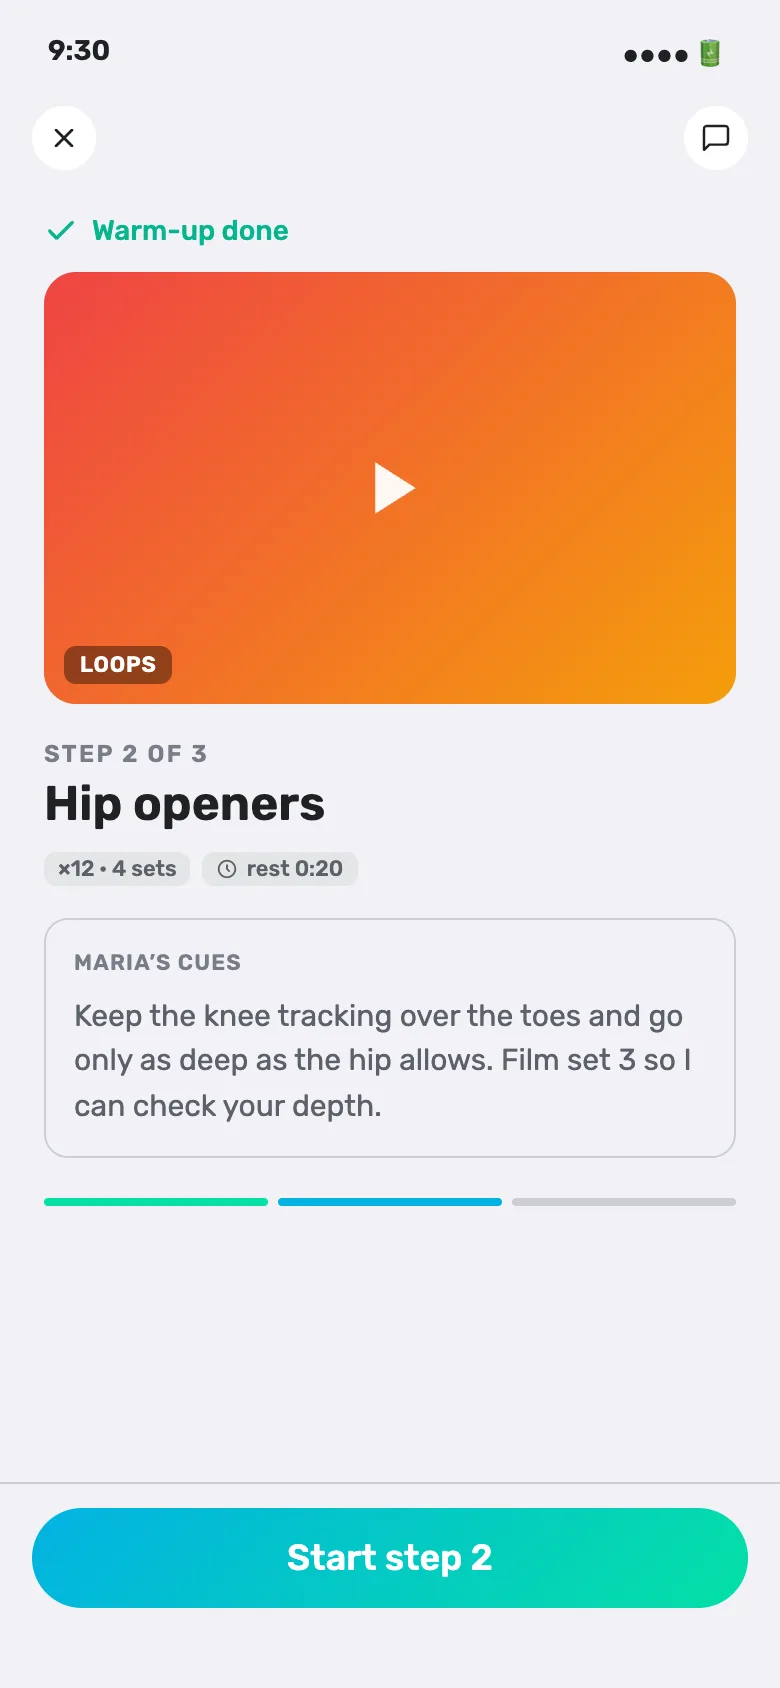
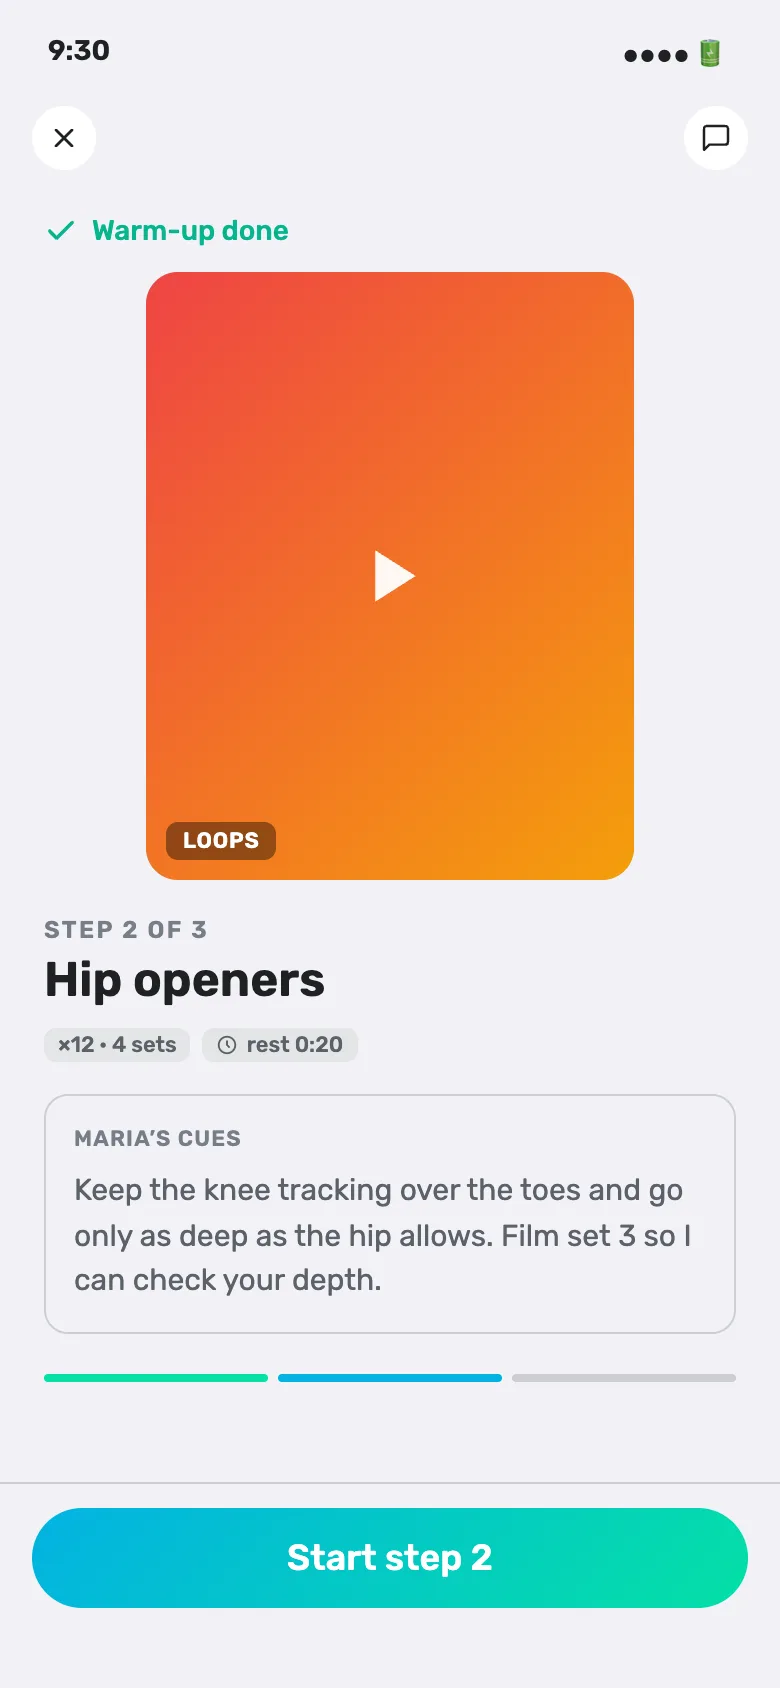
Self-paced player: the clip is vertical on purpose, so give it back the height
Capping the in-set media to a strip letterboxed a portrait clip and paid for
it in dead space below. Coaches film on a phone and athletes watch on one —
vertical is the shape, not an accident to design around.

The media goes back to full-bleed and the metric block moves onto it behind a
scrim, so both get the full height instead of splitting it. Rest keeps the
stacked treatment: there is no clip there, the background is light and the
ring is centred, so the scrim comes off and the text returns to normal
colours. The brief's demo is portrait too, height-capped so the cues stay on
screen without scrolling, and centred rather than sitting left with a gap.

Kept from the reshape: the session rail at the top, where the footer no longer
clips it and where it can carry step context, and the metric reading 12 over a
REPS label instead of a grey subscript on the baseline.

diff --git a/prototypes/flows/shared/self-paced.html b/prototypes/flows/shared/self-paced.html
@@ -121,18 +121,31 @@
   .sp-timer-cap { font-size: 13px; color: var(--fit-text-tertiary); margin-top: 2px; }
   /* Player (Freeletics-style): full-bleed media, bottom-left metric, one segment bar */
   #s-player .fit-phone-content { padding: 0 !important; display: flex; flex-direction: column; }
-  /* Capped, not flex:1. The video used to eat ~55% of the screen and show a static frame while
-     the athlete was mid-set — they are on the floor doing the move, not watching. Now that the
-     step brief carries the demo, in-set media is a reference glance, so the metric gets the room
-     and the session rail stops being squeezed off the bottom edge. */
-  .plf-media { flex: 0 0 auto; height: 38%; min-height: 0; position: relative; display: flex; align-items: center; justify-content: center; background: var(--fit-gray-100); overflow: hidden; }
-  #s-player.pl-rest .plf-media { height: 46%; }
+  /* Full-bleed and TALL on purpose: coaches film vertically on a phone and athletes watch on
+     one, so a capped strip letterboxes the clip and pays for it in dead space. The metric goes
+     ON the media instead of under it — same room for both, no cropping. */
+  .plf-media { flex: 1; min-height: 0; position: relative; display: flex; align-items: center; justify-content: center; background: var(--fit-gray-100); overflow: hidden; }
   .plf-exvis { position: absolute; inset: 0; display: flex; align-items: center; justify-content: center; }
   .plf-exvis .ph { position: absolute; inset: 0; }
   .plf-exvis .play { position: relative; width: 46px; height: 46px; opacity: 0.92; }
   #s-player.pl-rest .plf-exvis { display: none; }
   #s-player.pl-rest .plf-media { background: var(--fit-screen-bg); }
-  .plf-bottom { flex: 1; min-height: 0; padding: 22px 22px 6px; box-sizing: border-box; display: flex; flex-direction: column; justify-content: center; }
+  /* Overlaid on the clip, with a scrim so it stays readable over any frame. */
+  .plf-bottom { position: absolute; left: 0; right: 0; bottom: 0; padding: 40px 22px 20px; box-sizing: border-box; z-index: 2;
+    background: linear-gradient(to top, rgba(0,0,0,0.78), rgba(0,0,0,0.45) 55%, rgba(0,0,0,0)); }
+  .plf-bottom .plf-metric, .plf-bottom .plf-name { color: #fff; }
+  .plf-bottom .plf-unit, .plf-bottom .plf-detail { color: rgba(255,255,255,0.78); }
+  .plf-bottom .plf-next { color: rgba(255,255,255,0.62); }
+  .plf-bottom .plf-sets i { background: rgba(255,255,255,0.35); }
+  .plf-bottom .plf-sets i.done, .plf-bottom .plf-sets i.cur { background: #fff; }
+  .plf-bottom .plf-sets i.cur { box-shadow: 0 0 0 4px rgba(255,255,255,0.25); }
+  .plf-bottom .plf-sets span { color: rgba(255,255,255,0.78); }
+  /* Rest has no clip — light background, centred ring — so the scrim comes off and the text
+     goes back to normal colours. */
+  #s-player.pl-rest .plf-bottom { position: static; background: none; padding: 18px 22px 6px; }
+  #s-player.pl-rest .plf-bottom .plf-name { color: var(--fit-text-primary); }
+  #s-player.pl-rest .plf-bottom .plf-detail { color: var(--fit-text-secondary); }
+  #s-player.pl-rest .plf-bottom .plf-next { color: var(--fit-text-tertiary); }
   .plf-metric { font-size: 60px; font-weight: 700; line-height: 1; color: var(--fit-text-primary); font-variant-numeric: tabular-nums; }
   /* Rest = centered ring inside the (blank) media area */
   .plf-rest-ring { display: none; flex-direction: column; align-items: center; justify-content: center; width: 200px; height: 200px; border-radius: 50%; border: 5px solid var(--fit-divider); }
@@ -159,7 +172,9 @@
   .sb-done { display: flex; align-items: center; gap: 7px; padding: 0 22px 12px; font-size: 14px; font-weight: 500; color: var(--fit-teal-600); }
   .fit-dark .sb-done { color: var(--fit-teal-400); }
   .sb-done svg { width: 17px; height: 17px; flex-shrink: 0; }
-  .sb-media { margin: 0 22px; border-radius: 16px; overflow: hidden; aspect-ratio: 16/10; position: relative; display: flex; align-items: center; justify-content: center; background: var(--fit-gray-200); }
+  /* Portrait, like everything else that gets filmed on a phone. Capped so the cues below it
+     stay on screen without scrolling. */
+  .sb-media { margin: 0 auto; max-width: calc(100% - 44px); border-radius: 16px; overflow: hidden; aspect-ratio: 4/5; max-height: 36vh; position: relative; display: flex; align-items: center; justify-content: center; background: var(--fit-gray-200); }
   .sb-media .ph { position: absolute; inset: 0; }
   .sb-media .play { position: relative; width: 44px; height: 44px; opacity: 0.95; }
   .sb-media .loop { position: absolute; left: 10px; bottom: 10px; font-size: 11px; font-weight: 600; letter-spacing: 0.4px; text-transform: uppercase; color: #fff; background: rgba(0,0,0,0.4); padding: 3px 8px; border-radius: 6px; }
@@ -1142,7 +1157,7 @@
       <button class="fit-icon-btn" aria-label="Message coach" onclick="go('s-comments',null)" style="margin-left:6px;"><svg viewBox="0 0 24 24" fill="none" stroke="currentColor" stroke-width="1.8" stroke-linecap="round" stroke-linejoin="round"><path d="M21 15a2 2 0 01-2 2H7l-4 4V5a2 2 0 012-2h14a2 2 0 012 2z"/></svg></button>
     </div>
   </div>
-  <div class="fit-phone-content">
+  <div class="fit-phone-content" style="position:relative;">
     <!-- Where you are in the whole workout. At the bottom it was being clipped by the footer,
          and it carried no step context at all — the player never said which exercise of how many. -->
     <div class="plf-top">

diff --git a/prototypes/board/board-data.js b/prototypes/board/board-data.js
@@ -1542,7 +1542,7 @@ window.FIT_BOARD = {
       "screens": [
         {
           "id": "s-overview",
-          "hash": "7bc066ac5ea1",
+          "hash": "a9440ef386bf",
           "title": "Overview",
           "inApp": "Self-paced — flow",
           "status": "canon",
@@ -1561,7 +1561,7 @@ window.FIT_BOARD = {
         },
         {
           "id": "s-queue",
-          "hash": "955403b761f9",
+          "hash": "e46a0d305006",
           "title": "Requests + review",
           "inApp": "Self-paced",
           "status": "canon",
@@ -1589,7 +1589,7 @@ window.FIT_BOARD = {
         },
         {
           "id": "s-inbox",
-          "hash": "b28aaa56c011",
+          "hash": "46d7db508e91",
           "title": "↳ in unified Inbox",
           "inApp": "Inbox",
           "status": "canon",
@@ -1609,7 +1609,7 @@ window.FIT_BOARD = {
         },
         {
           "id": "s-setup",
-          "hash": "fb75dedb595c",
+          "hash": "c0458f3cf5df",
           "title": "Setup builder",
           "inApp": "Set up for Anna",
           "status": "canon",
@@ -1648,7 +1648,7 @@ window.FIT_BOARD = {
         },
         {
           "id": "s-step",
-          "hash": "0aeef07b30d7",
+          "hash": "0d056ae68889",
           "title": "Step editor",
           "inApp": "Edit step",
           "status": "canon",
@@ -1668,7 +1668,7 @@ window.FIT_BOARD = {
         },
         {
           "id": "s-review",
-          "hash": "c7935174e101",
+          "hash": "cbdfe7426281",
           "title": "Review submission",
           "inApp": "Review · Julia",
           "status": "canon",
@@ -1694,7 +1694,7 @@ window.FIT_BOARD = {
         },
         {
           "id": "s-history",
-          "hash": "a97030957908",
+          "hash": "cc5f1d714db4",
           "title": "Client history",
           "inApp": "Julia · self-paced",
           "status": "legacy",
@@ -1714,7 +1714,7 @@ window.FIT_BOARD = {
         },
         {
           "id": "s-library",
-          "hash": "607d580cbc95",
+          "hash": "a78fb5b52741",
           "title": "Coach library",
           "inApp": "Video library",
           "status": "canon",
@@ -1734,7 +1734,7 @@ window.FIT_BOARD = {
         },
         {
           "id": "s-book",
-          "hash": "3effe15304bd",
+          "hash": "1dce869f8976",
           "title": "Book offering",
           "inApp": "Book training",
           "status": "canon",
@@ -1754,7 +1754,7 @@ window.FIT_BOARD = {
         },
         {
           "id": "s-list",
-          "hash": "f8e823cb0b65",
+          "hash": "b9151527e9f1",
           "title": "My self-paced",
           "inApp": "Self-paced training",
           "status": "canon",
@@ -1780,7 +1780,7 @@ window.FIT_BOARD = {
         },
         {
           "id": "s-welcome",
-          "hash": "72a4e05edcba",
+          "hash": "a1f19e7554ad",
           "title": "Welcome / intro",
           "inApp": "",
           "status": "canon",
@@ -1806,7 +1806,7 @@ window.FIT_BOARD = {
         },
         {
           "id": "s-step-brief",
-          "hash": "13b90e0e3d9d",
+          "hash": "83c64547dffd",
           "title": "Step brief",
           "inApp": "",
           "status": "canon",
@@ -1826,7 +1826,7 @@ window.FIT_BOARD = {
         },
         {
           "id": "s-player",
-          "hash": "7c8cd7c4ac3c",
+          "hash": "cb0d6c8e06b6",
           "title": "Player",
           "inApp": "",
           "status": "canon",
@@ -1846,7 +1846,7 @@ window.FIT_BOARD = {
         },
         {
           "id": "s-complete",
-          "hash": "04f161bff1d3",
+          "hash": "f506282a767e",
           "title": "Complete + upload",
           "inApp": "Nice work 🎉",
           "status": "canon",
@@ -1866,7 +1866,7 @@ window.FIT_BOARD = {
         },
         {
           "id": "s-comments",
-          "hash": "02e15d6e08ad",
+          "hash": "71f5ab4d93a4",
           "title": "Athlete view",
           "inApp": "Lower-body mobility",
           "status": "canon",
@@ -1892,7 +1892,7 @@ window.FIT_BOARD = {
         },
         {
           "id": "s-trim",
-          "hash": "c1d22b736a4a",
+          "hash": "1c49dda7dfee",
           "title": "Trim clip",
           "inApp": "Trim clip",
           "status": "canon",
@@ -1912,7 +1912,7 @@ window.FIT_BOARD = {
         },
         {
           "id": "s-upload",
-          "hash": "f0d2820cf7a3",
+          "hash": "53931d5c019e",
           "title": "Uploading (Mux)",
           "inApp": "Uploading",
           "status": "canon",

diff --git a/specs/self-paced.md b/specs/self-paced.md
@@ -208,13 +208,19 @@ both collected by the step editor since day one — were displayed to **nobody**
   (too hard? cue unclear?) worth acting on. A live progress bar was rejected and its dead
   `.td-prog` CSS deleted: a bar turns an unfinished attempt into a watch-metric, where a stated
   fact reads as information.
-- **Player layout (reshaped 2026-08-26).** Media was `flex:1` and ate ~55% of the screen showing
-  a static frame while the athlete was mid-set — they are on the floor doing the move, not
-  watching. Now the brief carries the demo, so in-set media is capped at 38% and the metric
-  block takes the room. The session rail moved to the **top** (at the bottom it was clipped by
-  the footer) and now carries step context. `12×` became `12` over a `REPS` label — the unit was
-  a grey subscript on the baseline and read as an unfinished sum. Set dots replaced "Set 3 of 4"
-  as prose, which needs reading mid-exercise.
+- **Video is portrait everywhere, and that is deliberate.** Coaches film on a phone and athletes
+  watch on one, so both the in-set media and the brief's demo are vertical. Capping the player's
+  media to a short strip letterboxes the clip *and* pays for it in dead space — the first attempt
+  at this reshape did exactly that and was reverted. The player keeps **full-bleed** media and
+  the metric block is **overlaid on it** behind a scrim, so both get the full height instead of
+  splitting it. Rest has no clip, so the scrim comes off there and the text returns to normal
+  colours. On the brief the demo is portrait (4:5), height-capped so the cues stay on screen
+  without scrolling, and centred rather than left-aligned.
+- **Player layout (reshaped 2026-08-26).** The session rail moved to the **top** — at the bottom
+  the footer clipped it — and now carries step context, which the player never had. `12×` became
+  `12` over a `REPS` label: the unit was a grey subscript sitting on the numeral's baseline and
+  read as an unfinished sum. Set dots replaced "Set 3 of 4" as prose, which needs reading
+  mid-exercise.
 
 ---
 
